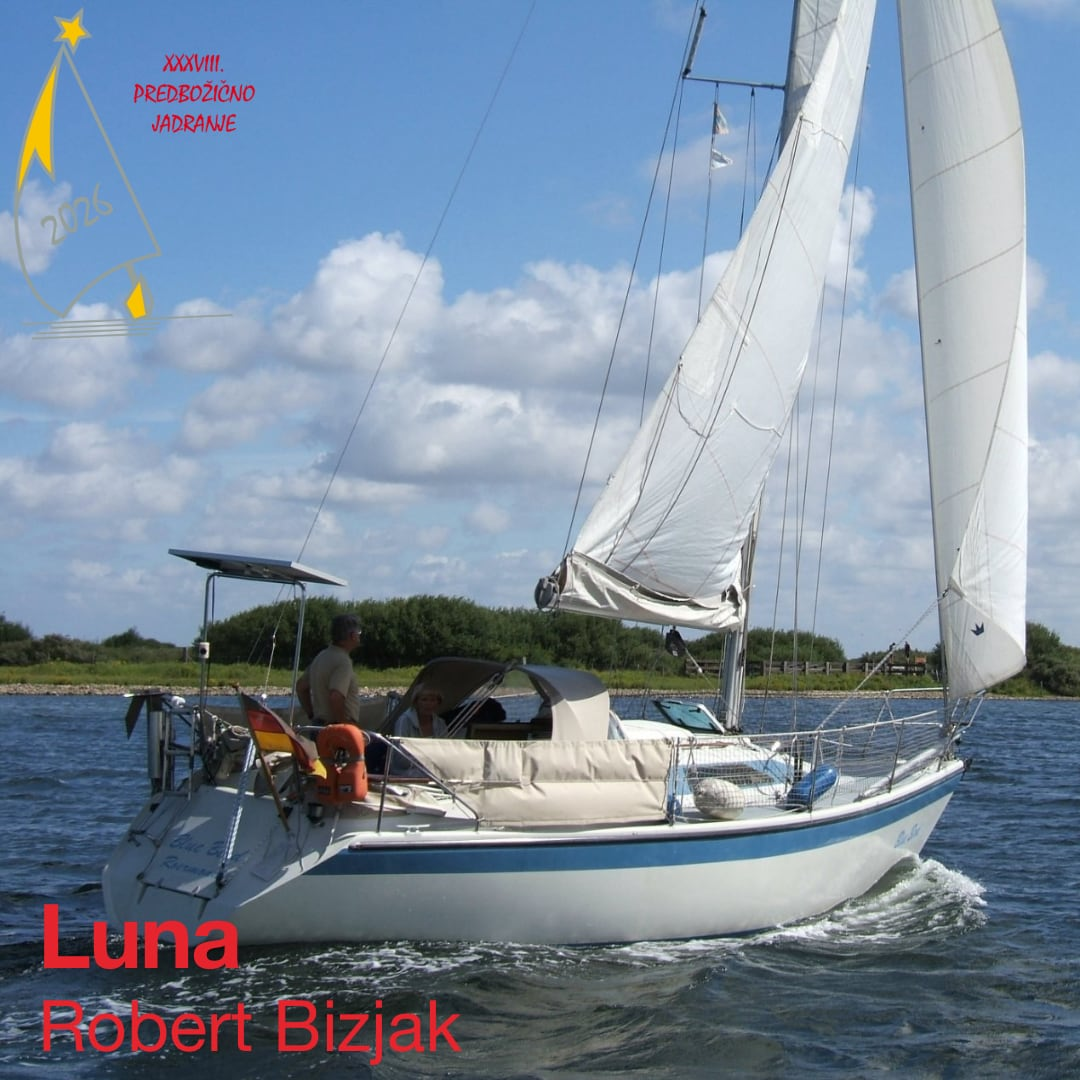
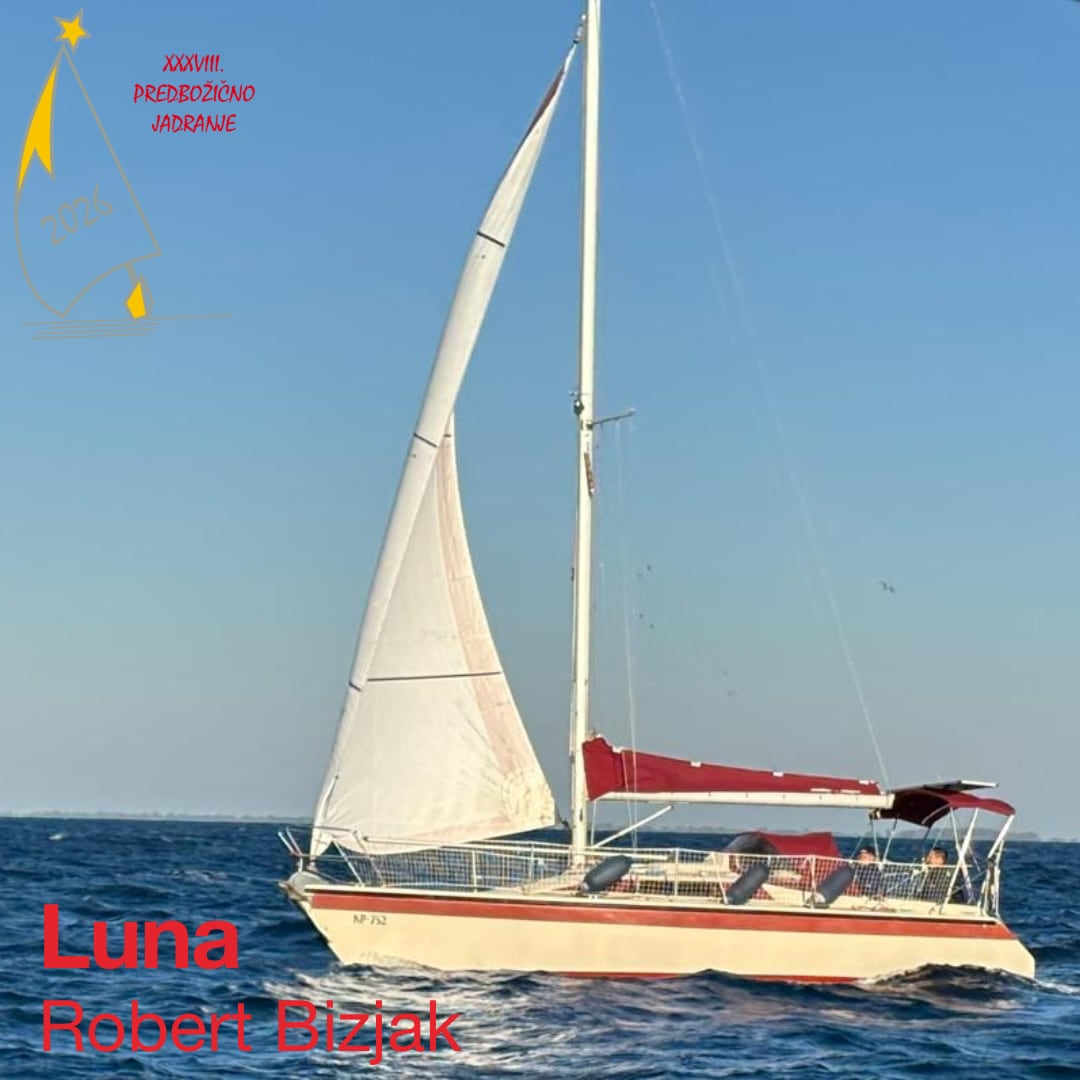
2026: Trma

diff --git a/src/jadranje/2026/prijave.md b/src/jadranje/2026/prijave.md
@@ -7,10 +7,11 @@ eleventyExcludeFromCollections: true
 
 | #  | Jadrnica                                                     | Model               | Skiper            | Oseb  |
 |---:|:------------------------------------------------------------:|:-------------------:|:-----------------:|:-----:|
-| 1. | Jagoda        ![Jagoda](/assets/2026/boats/jagoda.jpg)       | Minitransat 650     | Jaka Grčar.       |   2   |
-| 2. | Janina        ![Janina](/assets/2026/boats/janina.jpg)       | Elan 295.           | Tadej Mali.       |   3   |
-| 3. | Spectrum      ![Spectrum](/assets/2026/boats/spectrum.jpg)   | Bavaria Vision 42   | Luka Renko        |   3   |
+| 1. | Jagoda        ![Jagoda](/assets/2026/boats/jagoda.jpg)       | Minitransat 650     | Jaka Grčar        |   2   |
+| 2. | Janina        ![Janina](/assets/2026/boats/janina.jpg)       | Elan 295            | Tadej Mali        |   3   |
+| 3. | Spectrum      ![Spectrum](/assets/2026/boats/spectrum.jpg)   | Bavaria Vision 42   | Luka Renko        |   4   |
 | 4. | Sara          ![Sara](/assets/2026/boats/sara.jpg)           | Elan 31 S           | Vlado Kranjc      |   3   |
 | 5. | Luna          ![Luna](/assets/2026/boats/luna.jpg)           | Dehler Duetta 94    | Robert Bizjak     |   3   |
 | 6. | Electra       ![Electra](/assets/2026/boats/electra.jpg)     | Aquavit 355         | Roman Trobec      |   3   |
 | 7. | Praznični dan ![PD](/assets/2026/boats/praznicnidan.jpg)     | Pogo 850            | Emil Kozamernik   |   2   |
+| 8. | Trma          ![Trma](/assets/2026/boats/trma.jpg)           | Elan 333            | Kristjan Benedik  |   4   |
